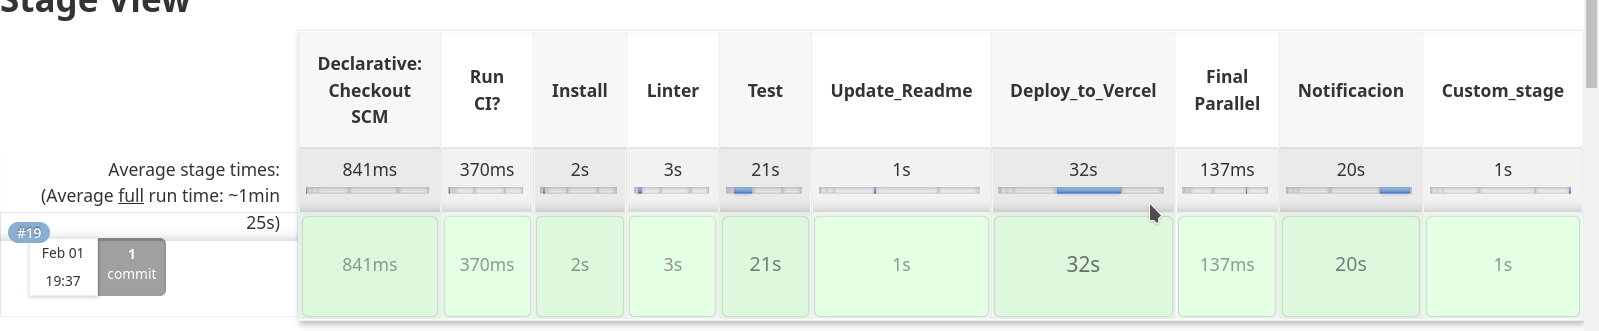
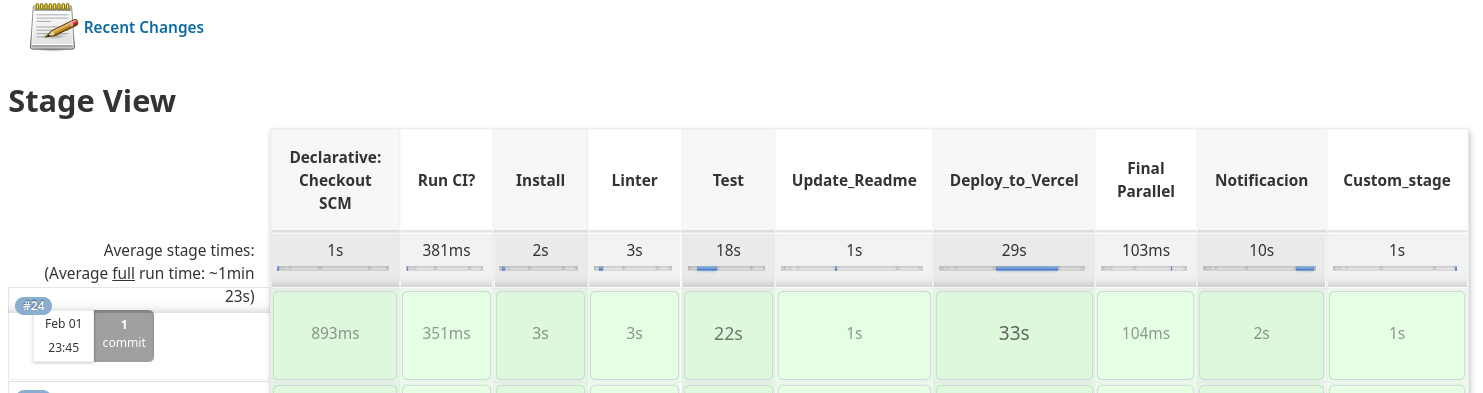
causar fallo tests

diff --git a/pages/api/users/index.js b/pages/api/users/index.js
@@ -6,7 +6,7 @@ function handler(req, res) {
   switch (req.method) {
     case "GET":
       return getUsers();
-    case "POST":
+    case "POST0":
       return createUser();
     case "DELETE":
       return deleteAllUsers();

diff --git a/doc/console_output_24.md b/doc/console_output_24.md
@@ -1,0 +1,303 @@
+# Console output del job 24
+```
+Started by user admin
+Checking out git https://github.com/jjpaya/gh_practica into /var/jenkins_home/workspace/jenkins_practica@script to read Jenkinsfile
+The recommended git tool is: NONE
+No credentials specified
+ > git rev-parse --resolve-git-dir /var/jenkins_home/workspace/jenkins_practica@script/.git # timeout=10
+Fetching changes from the remote Git repository
+ > git config remote.origin.url https://github.com/jjpaya/gh_practica # timeout=10
+Fetching upstream changes from https://github.com/jjpaya/gh_practica
+ > git --version # timeout=10
+ > git --version # 'git version 2.30.2'
+ > git fetch --tags --force --progress -- https://github.com/jjpaya/gh_practica +refs/heads/*:refs/remotes/origin/* # timeout=10
+ > git rev-parse refs/remotes/origin/jenkins^{commit} # timeout=10
+Checking out Revision a743383aa869612bc3b70a4abb391809c7c06701 (refs/remotes/origin/jenkins)
+ > git config core.sparsecheckout # timeout=10
+ > git checkout -f a743383aa869612bc3b70a4abb391809c7c06701 # timeout=10
+Commit message: "fix"
+ > git rev-list --no-walk e4f4b7a3435b3079e94c429e11b8190b9221233a # timeout=10
+[Pipeline] Start of Pipeline
+[Pipeline] node
+Running on Jenkins in /var/jenkins_home/workspace/jenkins_practica
+[Pipeline] {
+[Pipeline] stage
+[Pipeline] { (Declarative: Checkout SCM)
+[Pipeline] checkout
+The recommended git tool is: NONE
+No credentials specified
+ > git rev-parse --resolve-git-dir /var/jenkins_home/workspace/jenkins_practica/.git # timeout=10
+Fetching changes from the remote Git repository
+ > git config remote.origin.url https://github.com/jjpaya/gh_practica # timeout=10
+Fetching upstream changes from https://github.com/jjpaya/gh_practica
+ > git --version # timeout=10
+ > git --version # 'git version 2.30.2'
+ > git fetch --tags --force --progress -- https://github.com/jjpaya/gh_practica +refs/heads/*:refs/remotes/origin/* # timeout=10
+ > git rev-parse refs/remotes/origin/jenkins^{commit} # timeout=10
+Checking out Revision a743383aa869612bc3b70a4abb391809c7c06701 (refs/remotes/origin/jenkins)
+ > git config core.sparsecheckout # timeout=10
+ > git checkout -f a743383aa869612bc3b70a4abb391809c7c06701 # timeout=10
+Commit message: "fix"
+[Pipeline] }
+[Pipeline] // stage
+[Pipeline] withEnv
+[Pipeline] {
+[Pipeline] withEnv
+[Pipeline] {
+[Pipeline] stage
+[Pipeline] { (Run CI?)
+[Pipeline] script
+[Pipeline] {
+[Pipeline] sh
++ git log -1 --pretty=%B
++ fgrep -i -e [ci skip]
+[Pipeline] }
+[Pipeline] // script
+[Pipeline] }
+[Pipeline] // stage
+[Pipeline] stage
+[Pipeline] { (Install)
+[Pipeline] sh
++ npm install
+
+up to date, audited 492 packages in 2s
+
+2 high severity vulnerabilities
+
+To address all issues, run:
+  npm audit fix --force
+
+Run `npm audit` for details.
+[Pipeline] }
+[Pipeline] // stage
+[Pipeline] stage
+[Pipeline] { (Linter)
+[Pipeline] script
+[Pipeline] {
+[Pipeline] sh
++ npm run lint
+
+> lint
+> next lint
+
+✔ No ESLint warnings or errors
+[Pipeline] }
+[Pipeline] // script
+[Pipeline] }
+[Pipeline] // stage
+[Pipeline] stage
+[Pipeline] { (Test)
+[Pipeline] script
+[Pipeline] {
+[Pipeline] sh
++ npm run dev
+[Pipeline] sh
++ npm run cypress_run
+
+> cypress_run
+> cypress run
+
+[11824:0201/224525.797989:ERROR:bus.cc(392)] Failed to connect to the bus: Failed to connect to socket /run/dbus/system_bus_socket: No such file or directory
+[11824:0201/224525.801847:ERROR:bus.cc(392)] Failed to connect to the bus: Could not parse server address: Unknown address type (examples of valid types are "tcp" and on UNIX "unix")
+[11824:0201/224525.801899:ERROR:bus.cc(392)] Failed to connect to the bus: Could not parse server address: Unknown address type (examples of valid types are "tcp" and on UNIX "unix")
+[12026:0201/224525.822222:ERROR:gpu_init.cc(453)] Passthrough is not supported, GL is swiftshader, ANGLE is 
+
+====================================================================================================
+
+  (Run Starting)
+
+  ┌────────────────────────────────────────────────────────────────────────────────────────────────┐
+  │ Cypress:        9.4.1                                                                          │
+  │ Browser:        Electron 94 (headless)                                                         │
+  │ Node Version:   v12.22.5 (/usr/bin/node)                                                       │
+  │ Specs:          2 found (1-my-tests/api/users.spec.js, 1-my-tests/pages/index.spec.js)         │
+  └────────────────────────────────────────────────────────────────────────────────────────────────┘
+
+
+────────────────────────────────────────────────────────────────────────────────────────────────────
+                                                                                                    
+  Running:  1-my-tests/api/users.spec.js                                                    (1 of 2)
+[11824:0201/224527.810503:ERROR:bus.cc(392)] Failed to connect to the bus: Could not parse server address: Unknown address type (examples of valid types are "tcp" and on UNIX "unix")
+Browserslist: caniuse-lite is outdated. Please run:
+npx browserslist@latest --update-db
+
+Why you should do it regularly:
+https://github.com/browserslist/browserslist#browsers-data-updating
+
+
+  Test de endpoints
+    ✓ Endpoint user creation (2094ms)
+    ✓ Endpoint user creation (50ms)
+    ✓ Endpoint user creation (58ms)
+    ✓ Endpoint user creation (72ms)
+    ✓ Endpoint user creation (71ms)
+    ✓ Endpoint user creation (76ms)
+    ✓ Endpoint user creation (92ms)
+    ✓ Endpoint user creation (108ms)
+    ✓ Endpoint user creation (271ms)
+    ✓ Endpoint user creation (62ms)
+    ✓ Endpoint get users (86ms)
+
+
+  11 passing (5s)
+
+
+  (Results)
+
+  ┌────────────────────────────────────────────────────────────────────────────────────────────────┐
+  │ Tests:        11                                                                               │
+  │ Passing:      11                                                                               │
+  │ Failing:      0                                                                                │
+  │ Pending:      0                                                                                │
+  │ Skipped:      0                                                                                │
+  │ Screenshots:  0                                                                                │
+  │ Video:        true                                                                             │
+  │ Duration:     5 seconds                                                                        │
+  │ Spec Ran:     1-my-tests/api/users.spec.js                                                     │
+  └────────────────────────────────────────────────────────────────────────────────────────────────┘
+
+
+  (Video)
+
+  -  Started processing:  Compressing to 32 CRF                                                     
+  -  Finished processing: /var/jenkins_home/workspace/jenkins_practica/cypress/videos     (1 second)
+                          /1-my-tests/api/users.spec.js.mp4                                         
+
+
+────────────────────────────────────────────────────────────────────────────────────────────────────
+                                                                                                    
+  Running:  1-my-tests/pages/index.spec.js                                                  (2 of 2)
+[11824:0201/224538.576355:ERROR:bus.cc(392)] Failed to connect to the bus: Could not parse server address: Unknown address type (examples of valid types are "tcp" and on UNIX "unix")
+
+
+  Test de endpoints
+    ✓ Endpoint to check index title (1214ms)
+
+
+  1 passing (1s)
+
+
+  (Results)
+
+  ┌────────────────────────────────────────────────────────────────────────────────────────────────┐
+  │ Tests:        1                                                                                │
+  │ Passing:      1                                                                                │
+  │ Failing:      0                                                                                │
+  │ Pending:      0                                                                                │
+  │ Skipped:      0                                                                                │
+  │ Screenshots:  0                                                                                │
+  │ Video:        true                                                                             │
+  │ Duration:     1 second                                                                         │
+  │ Spec Ran:     1-my-tests/pages/index.spec.js                                                   │
+  └────────────────────────────────────────────────────────────────────────────────────────────────┘
+
+
+  (Video)
+
+  -  Started processing:  Compressing to 32 CRF                                                     
+  -  Finished processing: /var/jenkins_home/workspace/jenkins_practica/cypress/videos    (0 seconds)
+                          /1-my-tests/pages/index.spec.js.mp4                                       
+
+
+====================================================================================================
+
+  (Run Finished)
+
+
+       Spec                                              Tests  Passing  Failing  Pending  Skipped  
+  ┌────────────────────────────────────────────────────────────────────────────────────────────────┐
+  │ ✔  1-my-tests/api/users.spec.js             00:05       11       11        -        -        - │
+  ├────────────────────────────────────────────────────────────────────────────────────────────────┤
+  │ ✔  1-my-tests/pages/index.spec.js           00:01        1        1        -        -        - │
+  └────────────────────────────────────────────────────────────────────────────────────────────────┘
+    ✔  All specs passed!                        00:06       12       12        -        -        -  
+
+[Pipeline] }
+[Pipeline] // script
+[Pipeline] }
+[Pipeline] // stage
+[Pipeline] stage
+[Pipeline] { (Update_Readme)
+[Pipeline] script
+[Pipeline] {
+[Pipeline] withCredentials
+Masking supported pattern matches of $GH_TOKEN
+[Pipeline] {
+[Pipeline] sh
++ sh ./jenkinsScripts/repo-config.sh ****
+[Pipeline] }
+[Pipeline] // withCredentials
+[Pipeline] sh
++ bash ./jenkinsScripts/badge.sh 0
+[Pipeline] sh
++ sh ./jenkinsScripts/commit.sh admin Started by user admin
+HEAD detached at a743383
+Changes not staged for commit:
+  (use "git add <file>..." to update what will be committed)
+  (use "git restore <file>..." to discard changes in working directory)
+	modified:   cypress/videos/1-my-tests/api/users.spec.js.mp4
+	modified:   cypress/videos/1-my-tests/pages/index.spec.js.mp4
+	modified:   package-lock.json
+
+no changes added to commit (use "git add" and/or "git commit -a")
+[Pipeline] }
+[Pipeline] // script
+[Pipeline] }
+[Pipeline] // stage
+[Pipeline] stage
+[Pipeline] { (Deploy_to_Vercel)
+[Pipeline] script
+[Pipeline] {
+[Pipeline] withCredentials
+Masking supported pattern matches of $VC_TOKEN or $VERCEL_ORG_ID or $VERCEL_PROJECT_ID
+[Pipeline] {
+[Pipeline] sh
++ node ./node_modules/.bin/vercel --prod --scope=jjpaya --token=****
+Vercel CLI 23.1.2
+- Deploying jjpaya/jenkins-practica
+[2K[GInspect: https://vercel.com/jjpaya/jenkins-practica/8H1hv5YW9zhVqpJzSVSu82GryPJY [4s]
+https://jenkins-practica-kvcpti81p-jjpaya.vercel.app- Queued
+[2K[GProduction: https://gh-practica.vercel.app [27s]
+[Pipeline] }
+[Pipeline] // withCredentials
+[Pipeline] }
+[Pipeline] // script
+[Pipeline] }
+[Pipeline] // stage
+[Pipeline] stage
+[Pipeline] { (Final Parallel)
+[Pipeline] parallel
+[Pipeline] { (Branch: Notificacion)
+[Pipeline] { (Branch: Custom_stage)
+[Pipeline] stage
+[Pipeline] { (Notificacion)
+[Pipeline] stage
+[Pipeline] { (Custom_stage)
+[Pipeline] script
+[Pipeline] {
+[Pipeline] sh
+[Pipeline] emailext
++ bash ./jenkinsScripts/bump.sh bug
+Sending email to: ******@gmail.com
+To https://github.com/jjpaya/gh_practica.git
+ * [new tag]         1.0.13 -> 1.0.13
+[Pipeline] }
+[Pipeline] // stage
+[Pipeline] }
+[Pipeline] }
+[Pipeline] // script
+[Pipeline] }
+[Pipeline] // stage
+[Pipeline] }
+[Pipeline] // parallel
+[Pipeline] }
+[Pipeline] // stage
+[Pipeline] }
+[Pipeline] // withEnv
+[Pipeline] }
+[Pipeline] // withEnv
+[Pipeline] }
+[Pipeline] // node
+[Pipeline] End of Pipeline
+Finished: SUCCESS
+```

diff --git a/README.md b/README.md
@@ -93,9 +93,19 @@ La pipeline se ejecuta y finaliza correctamente:
 
 ![s15](doc/15.png)
 
-Y se envía el correo de resultado:
+Y vemos que se envía el correo de resultado:
+
+![s16](doc/16.png)
+
+Se muestra el código de salida de cada proceso ejecutado en los stages. 0 significa que no ha habido ningún error.
+
+Puedes consultar el console output en [doc/console_output_24.md](doc/console_output_24.md)
+
+Si hacemos que los tests de cypress fallen, vemos los siguientes resultados:
 
 
+
+Cuando decida ejecutarse de nuevo por el commit que haya creado
 
 RESULTADO DE LOS ULTIMOS TESTS:
 ![cyp-badge](https://img.shields.io/badge/tested%20with-Cypress-04C38E.svg)
